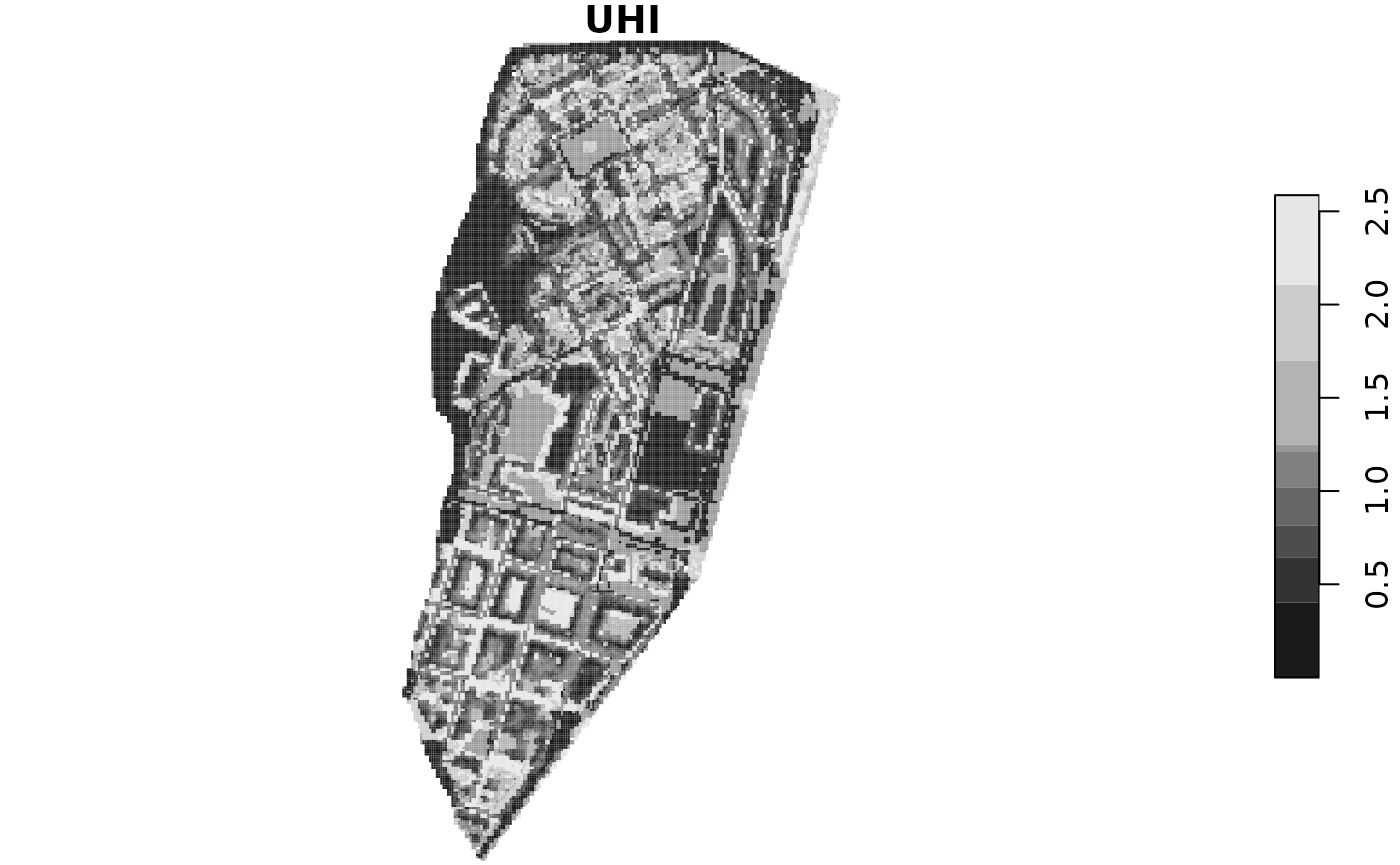
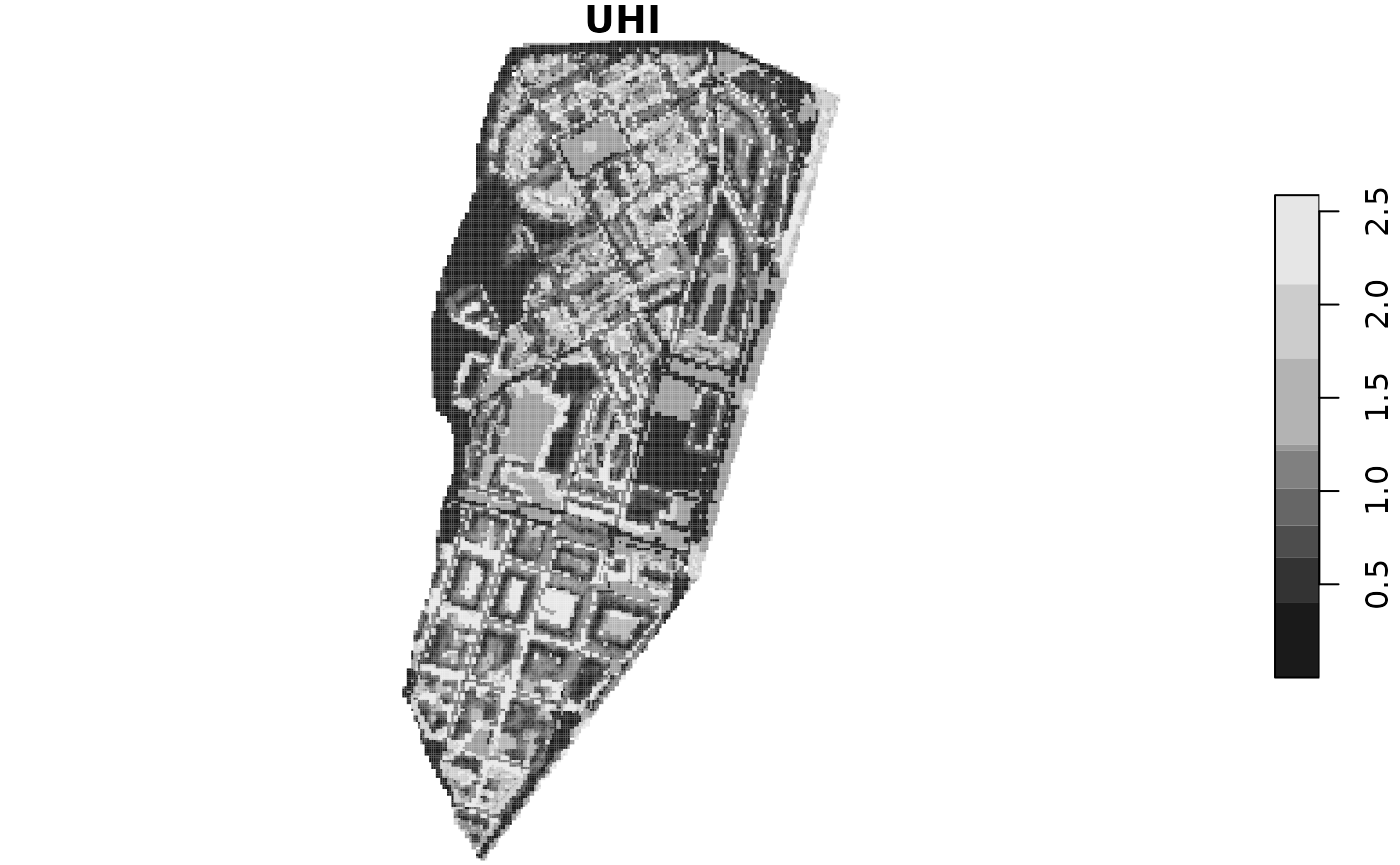
Deploying to gh-pages from @ icra/ediblecity@21ef4b949d162aa58fdb60000b0607b5011fa0b9 🚀

diff --git a/articles/ediblecity.html b/articles/ediblecity.html
@@ -124,7 +124,7 @@ factor. See <code><a href="../reference/UHI.html">?UHI</a></code> for more detai
 <div class="sourceCode" id="cb3"><pre class="downlit sourceCode r">
 <code class="sourceCode R"><span><span class="fu"><a href="../reference/UHI.html">UHI</a></span><span class="op">(</span><span class="va">scenario</span>, <span class="va">SVF</span><span class="op">)</span></span>
 <span><span class="co">#&gt;    Min. 1st Qu.  Median    Mean 3rd Qu.    Max. </span></span>
-<span><span class="co">#&gt;   0.000   0.548   1.017   1.030   1.413   2.587</span></span></code></pre></div>
+<span><span class="co">#&gt;  0.0000  0.5474  1.0141  1.0313  1.4186  2.5867</span></span></code></pre></div>
 <div class="sourceCode" id="cb4"><pre class="downlit sourceCode r">
 <code class="sourceCode R"><span><span class="fu"><a href="https://rdrr.io/r/graphics/plot.default.html" class="external-link">plot</a></span><span class="op">(</span><span class="fu"><a href="../reference/UHI.html">UHI</a></span><span class="op">(</span><span class="va">scenario</span>, <span class="va">SVF</span>, return_raster <span class="op">=</span> <span class="cn">TRUE</span><span class="op">)</span><span class="op">)</span></span></code></pre></div>
 <p><img src="ediblecity_files/figure-html/unnamed-chunk-3-1.png" width="700"></p>
@@ -139,7 +139,7 @@ agriculture.</p>
 <div class="sourceCode" id="cb5"><pre class="downlit sourceCode r">
 <code class="sourceCode R"><span><span class="fu"><a href="../reference/runoff_prev.html">runoff_prev</a></span><span class="op">(</span><span class="va">scenario</span><span class="op">)</span></span>
 <span><span class="co">#&gt;       runoff     rainfall  rainharvest </span></span>
-<span><span class="co">#&gt;     34.93015 108169.04500   1653.37668</span></span></code></pre></div>
+<span><span class="co">#&gt;     34.65516 108169.04500   1536.20614</span></span></code></pre></div>
 </div>
 <div class="section level3">
 <h3 id="distance-to-closest-green-area">Distance to closest green area<a class="anchor" aria-label="anchor" href="#distance-to-closest-green-area"></a>
@@ -172,7 +172,7 @@ between the neighbourhoods with minimum and maximum value (min /
 max).</p>
 <div class="sourceCode" id="cb8"><pre class="downlit sourceCode r">
 <code class="sourceCode R"><span><span class="fu"><a href="../reference/green_capita.html">green_capita</a></span><span class="op">(</span><span class="va">scenario</span>, inhabitants <span class="op">=</span> <span class="fl">6000</span><span class="op">)</span></span>
-<span><span class="co">#&gt; [1] 10.74933</span></span>
+<span><span class="co">#&gt; [1] 10.75967</span></span>
 <span></span>
 <span><span class="fu"><a href="../reference/green_capita.html">green_capita</a></span><span class="op">(</span><span class="va">scenario</span>, </span>
 <span>             neighbourhoods <span class="op">=</span> <span class="va">neighbourhoods_example</span>, </span>
@@ -182,14 +182,14 @@ max).</p>
 <span><span class="co">#&gt; <span style="color: #949494;"># A tibble: 2 × 4</span></span></span>
 <span><span class="co">#&gt;   name              area inhabitants green_capita</span></span>
 <span><span class="co">#&gt;   <span style="color: #949494; font-style: italic;">&lt;chr&gt;</span>            <span style="color: #949494; font-style: italic;">&lt;dbl&gt;</span>       <span style="color: #949494; font-style: italic;">&lt;dbl&gt;</span>        <span style="color: #949494; font-style: italic;">&lt;dbl&gt;</span></span></span>
-<span><span class="co">#&gt; <span style="color: #BCBCBC;">1</span> Sant Narcís nord <span style="text-decoration: underline;">35</span>562        <span style="text-decoration: underline;">1</span>028        34.6 </span></span>
-<span><span class="co">#&gt; <span style="color: #BCBCBC;">2</span> Sant Narcís sud  <span style="text-decoration: underline;">35</span>034        <span style="text-decoration: underline;">5</span>290         6.62</span></span>
+<span><span class="co">#&gt; <span style="color: #BCBCBC;">1</span> Sant Narcís nord <span style="text-decoration: underline;">35</span>820        <span style="text-decoration: underline;">1</span>028        34.8 </span></span>
+<span><span class="co">#&gt; <span style="color: #BCBCBC;">2</span> Sant Narcís sud  <span style="text-decoration: underline;">34</span>712        <span style="text-decoration: underline;">5</span>290         6.56</span></span>
 <span></span>
 <span><span class="fu"><a href="../reference/green_capita.html">green_capita</a></span><span class="op">(</span><span class="va">scenario</span>, </span>
 <span>             neighbourhoods <span class="op">=</span> <span class="va">neighbourhoods_example</span>, </span>
 <span>             inh_col <span class="op">=</span> <span class="st">'inhabitants'</span>,</span>
 <span>             name_col <span class="op">=</span> <span class="st">'name'</span><span class="op">)</span></span>
-<span><span class="co">#&gt; [1] 0.1914437</span></span></code></pre></div>
+<span><span class="co">#&gt; [1] 0.1883179</span></span></code></pre></div>
 </div>
 <div class="section level3">
 <h3 id="nitrogen-dioxide-no2-sequestered-by-urban-green">Nitrogen dioxide (NO<sub>2</sub>) sequestered by urban green<a class="anchor" aria-label="anchor" href="#nitrogen-dioxide-no2-sequestered-by-urban-green"></a>
@@ -200,7 +200,7 @@ NO<sub>2</sub> sequestered by urban green in gr/s.</p>
 <code class="sourceCode R"><span></span>
 <span><span class="fu"><a href="../reference/no2_seq.html">no2_seq</a></span><span class="op">(</span><span class="va">scenario</span><span class="op">)</span></span>
 <span><span class="co">#&gt;     gr/s </span></span>
-<span><span class="co">#&gt; 109.4522</span></span></code></pre></div>
+<span><span class="co">#&gt; 109.4313</span></span></code></pre></div>
 </div>
 <div class="section level3">
 <h3 id="jobs-created-by-commercial-urban-agriculture">Jobs created by commercial urban agriculture<a class="anchor" aria-label="anchor" href="#jobs-created-by-commercial-urban-agriculture"></a>
@@ -213,7 +213,7 @@ to estimate the value and returns the confidence interval (unless
 <div class="sourceCode" id="cb10"><pre class="downlit sourceCode r">
 <code class="sourceCode R"><span><span class="fu"><a href="../reference/edible_jobs.html">edible_jobs</a></span><span class="op">(</span><span class="va">scenario</span><span class="op">)</span></span>
 <span><span class="co">#&gt;        5%       50%       95% </span></span>
-<span><span class="co">#&gt;  231.8473 1768.2772 3232.8509</span></span></code></pre></div>
+<span><span class="co">#&gt;  217.2378 1673.7559 3182.8754</span></span></code></pre></div>
 </div>
 <div class="section level3">
 <h3 id="volunteers-involved-in-community-urban-agriculture">Volunteers involved in community urban agriculture<a class="anchor" aria-label="anchor" href="#volunteers-involved-in-community-urban-agriculture"></a>
@@ -226,7 +226,7 @@ interval (unless <code>verbose = TRUE</code>).</p>
 <div class="sourceCode" id="cb11"><pre class="downlit sourceCode r">
 <code class="sourceCode R"><span><span class="fu"><a href="../reference/edible_volunteers.html">edible_volunteers</a></span><span class="op">(</span><span class="va">scenario</span><span class="op">)</span></span>
 <span><span class="co">#&gt;        5%       50%       95% </span></span>
-<span><span class="co">#&gt;  256.7708 2265.1261 4346.5102</span></span></code></pre></div>
+<span><span class="co">#&gt;  242.3643 2393.3355 4318.1334</span></span></code></pre></div>
 </div>
 <div class="section level3">
 <h3 id="food-production">Food production<a class="anchor" aria-label="anchor" href="#food-production"></a>
@@ -239,7 +239,7 @@ the value and returns the confidence interval (unless
 <div class="sourceCode" id="cb12"><pre class="downlit sourceCode r">
 <code class="sourceCode R"><span><span class="fu"><a href="../reference/food_production.html">food_production</a></span><span class="op">(</span><span class="va">scenario</span><span class="op">)</span></span>
 <span><span class="co">#&gt;        5%       50%       95% </span></span>
-<span><span class="co">#&gt;  666815.4  915407.3 1149182.8</span></span></code></pre></div>
+<span><span class="co">#&gt;  676382.3  927702.0 1158226.6</span></span></code></pre></div>
 </div>
 </div>
 <div class="section level2">

diff --git a/reference/edible_volunteers.html b/reference/edible_volunteers.html
@@ -118,14 +118,14 @@ Otherwise, it returns a vector of length 1000 with all simulated values.</p>
     <div class="sourceCode"><pre class="sourceCode r"><code><span class="r-in"><span><span class="co"># Get the 95% confidence interval</span></span></span>
 <span class="r-in"><span><span class="fu">edible_volunteers</span><span class="op">(</span><span class="va">city_example</span>, interval <span class="op">=</span> <span class="fl">0.95</span><span class="op">)</span></span></span>
 <span class="r-out co"><span class="r-pr">#&gt;</span>        5%       50%       95% </span>
-<span class="r-out co"><span class="r-pr">#&gt;</span>  2.025222 17.975156 33.205745 </span>
+<span class="r-out co"><span class="r-pr">#&gt;</span>  1.999793 17.704383 33.703150 </span>
 <span class="r-in"><span></span></span>
 <span class="r-in"><span><span class="co"># Get the raw values from the Monte Carlo simulation</span></span></span>
 <span class="r-in"><span><span class="co"># and adjust the number of volunteers by squared meter.</span></span></span>
 <span class="r-in"><span><span class="va">result</span> <span class="op">&lt;-</span> <span class="fu">edible_volunteers</span><span class="op">(</span><span class="va">city_example</span>, volunteers <span class="op">=</span> <span class="fu"><a href="https://rdrr.io/r/base/c.html" class="external-link">c</a></span><span class="op">(</span><span class="fl">0.1</span>, <span class="fl">0.2</span><span class="op">)</span>, verbose <span class="op">=</span> <span class="cn">TRUE</span><span class="op">)</span></span></span>
 <span class="r-in"><span><span class="va">result</span><span class="op">[</span><span class="fl">1</span><span class="op">:</span><span class="fl">10</span><span class="op">]</span></span></span>
-<span class="r-out co"><span class="r-pr">#&gt;</span>  [1] 23.06042 21.41789 22.41532 26.18313 16.60258 31.32108 25.13381 18.95376</span>
-<span class="r-out co"><span class="r-pr">#&gt;</span>  [9] 21.62002 17.87212</span>
+<span class="r-out co"><span class="r-pr">#&gt;</span>  [1] 16.93992 31.76273 31.43297 29.32624 28.70223 29.46838 16.50466 22.24931</span>
+<span class="r-out co"><span class="r-pr">#&gt;</span>  [9] 29.05330 25.68755</span>
 </code></pre></div>
     </div>
   </main><aside class="col-md-3"><nav id="toc"><h2>On this page</h2>

diff --git a/reference/edible_jobs.html b/reference/edible_jobs.html
@@ -117,13 +117,13 @@ Otherwise, it returns a vector of length 1000 with all simulated values.</p>
 <span class="r-in"><span><span class="co"># Get the 95% confidence interval</span></span></span>
 <span class="r-in"><span><span class="fu">edible_jobs</span><span class="op">(</span><span class="va">scenario</span>, interval <span class="op">=</span> <span class="fl">0.95</span><span class="op">)</span></span></span>
 <span class="r-out co"><span class="r-pr">#&gt;</span>        5%       50%       95% </span>
-<span class="r-out co"><span class="r-pr">#&gt;</span>  195.4305 1494.1293 2796.1748 </span>
+<span class="r-out co"><span class="r-pr">#&gt;</span>  160.1617 1498.2072 2784.0295 </span>
 <span class="r-in"><span></span></span>
 <span class="r-in"><span><span class="co"># Get the raw values from the Monte Carlo simulation and adjust the number of jobs by square meter.</span></span></span>
 <span class="r-in"><span><span class="va">result</span> <span class="op">&lt;-</span> <span class="fu">edible_jobs</span><span class="op">(</span><span class="va">scenario</span>, jobs <span class="op">=</span> <span class="fu"><a href="https://rdrr.io/r/base/c.html" class="external-link">c</a></span><span class="op">(</span><span class="fl">0.02</span>, <span class="fl">0.03</span><span class="op">)</span>, verbose <span class="op">=</span> <span class="cn">TRUE</span><span class="op">)</span></span></span>
 <span class="r-in"><span><span class="va">result</span><span class="op">[</span><span class="fl">1</span><span class="op">:</span><span class="fl">10</span><span class="op">]</span></span></span>
-<span class="r-out co"><span class="r-pr">#&gt;</span>  [1] 2965.512 3168.062 3705.383 2824.419 3710.829 3340.418 3408.606 2687.625</span>
-<span class="r-out co"><span class="r-pr">#&gt;</span>  [9] 3070.367 2799.109</span>
+<span class="r-out co"><span class="r-pr">#&gt;</span>  [1] 3478.755 2763.127 3577.155 2825.189 2968.031 3312.319 3603.466 3168.859</span>
+<span class="r-out co"><span class="r-pr">#&gt;</span>  [9] 2867.562 2797.896</span>
 </code></pre></div>
     </div>
   </main><aside class="col-md-3"><nav id="toc"><h2>On this page</h2>

diff --git a/reference/food_production.html b/reference/food_production.html
@@ -114,13 +114,13 @@ sf::st_area()</p></dd>
     <div class="sourceCode"><pre class="sourceCode r"><code><span class="r-in"><span><span class="co"># Estimate the food production within 95% confidence interval</span></span></span>
 <span class="r-in"><span><span class="fu">food_production</span><span class="op">(</span><span class="va">city_example</span>, interval <span class="op">=</span> <span class="fl">0.95</span>, verbose <span class="op">=</span> <span class="cn">FALSE</span><span class="op">)</span></span></span>
 <span class="r-out co"><span class="r-pr">#&gt;</span>        5%       50%       95% </span>
-<span class="r-out co"><span class="r-pr">#&gt;</span>  48.56171 193.44164 335.09024 </span>
+<span class="r-out co"><span class="r-pr">#&gt;</span>  47.74839 200.01906 339.60715 </span>
 <span class="r-in"><span></span></span>
 <span class="r-in"><span><span class="co"># Get the raw values instead of the confidence interval</span></span></span>
 <span class="r-in"><span><span class="va">result</span> <span class="op">&lt;-</span> <span class="fu">food_production</span><span class="op">(</span><span class="va">city_example</span>, verbose <span class="op">=</span> <span class="cn">TRUE</span><span class="op">)</span></span></span>
 <span class="r-in"><span><span class="va">result</span><span class="op">[</span><span class="fl">1</span><span class="op">:</span><span class="fl">10</span><span class="op">]</span></span></span>
-<span class="r-out co"><span class="r-pr">#&gt;</span>  [1] 107.34062 275.55032 223.16945 318.78991 216.19087 267.81185  77.35409</span>
-<span class="r-out co"><span class="r-pr">#&gt;</span>  [8] 343.12609 250.15280 279.61668</span>
+<span class="r-out co"><span class="r-pr">#&gt;</span>  [1]  89.09467 339.83305  40.94375 282.43320 338.63820  74.72544 334.01257</span>
+<span class="r-out co"><span class="r-pr">#&gt;</span>  [8] 174.36546  52.53066 176.77484</span>
 </code></pre></div>
     </div>
   </main><aside class="col-md-3"><nav id="toc"><h2>On this page</h2>

diff --git a/reference/runoff_prev.html b/reference/runoff_prev.html
@@ -117,12 +117,12 @@ and harvested rainwater in cubic meters.</p>
     <div class="sourceCode"><pre class="sourceCode r"><code><span class="r-in"><span><span class="co"># Get the total values of runoff, rainfall and rain harvested</span></span></span>
 <span class="r-in"><span><span class="fu">runoff_prev</span><span class="op">(</span><span class="va">city_example</span><span class="op">)</span></span></span>
 <span class="r-out co"><span class="r-pr">#&gt;</span>       runoff     rainfall  rainharvest </span>
-<span class="r-out co"><span class="r-pr">#&gt;</span>     38.19963 108169.04500   1266.76235 </span>
+<span class="r-out co"><span class="r-pr">#&gt;</span>     36.28481 108169.04500   1321.33777 </span>
 <span class="r-in"><span></span></span>
 <span class="r-in"><span><span class="co"># Adjust the parameters for rain, maximum distance to harvest rainwater and tank size</span></span></span>
 <span class="r-in"><span><span class="fu">runoff_prev</span><span class="op">(</span><span class="va">city_example</span>, rain <span class="op">=</span> <span class="fl">160</span>, harvest_dist <span class="op">=</span> <span class="fl">5</span>, tank_size <span class="op">=</span> <span class="fu"><a href="https://rdrr.io/r/base/c.html" class="external-link">c</a></span><span class="op">(</span><span class="fl">20</span>,<span class="fl">30</span><span class="op">)</span><span class="op">)</span></span></span>
 <span class="r-out co"><span class="r-pr">#&gt;</span>      runoff    rainfall rainharvest </span>
-<span class="r-out co"><span class="r-pr">#&gt;</span>    100.5664 203612.3200   1371.6783 </span>
+<span class="r-out co"><span class="r-pr">#&gt;</span>    100.4855 203612.3200   1357.7294 </span>
 </code></pre></div>
     </div>
   </main><aside class="col-md-3"><nav id="toc"><h2>On this page</h2>

diff --git a/reference/no2_seq.html b/reference/no2_seq.html
@@ -87,7 +87,7 @@ urban features.</p></dd>
     <div class="sourceCode"><pre class="sourceCode r"><code><span class="r-in"><span><span class="co"># Get the total nitrogen dioxide sequestered by urban green</span></span></span>
 <span class="r-in"><span><span class="fu">no2_seq</span><span class="op">(</span><span class="va">city_example</span><span class="op">)</span></span></span>
 <span class="r-out co"><span class="r-pr">#&gt;</span>     gr/s </span>
-<span class="r-out co"><span class="r-pr">#&gt;</span> 102.1037 </span>
+<span class="r-out co"><span class="r-pr">#&gt;</span> 102.1043 </span>
 </code></pre></div>
     </div>
   </main><aside class="col-md-3"><nav id="toc"><h2>On this page</h2>
